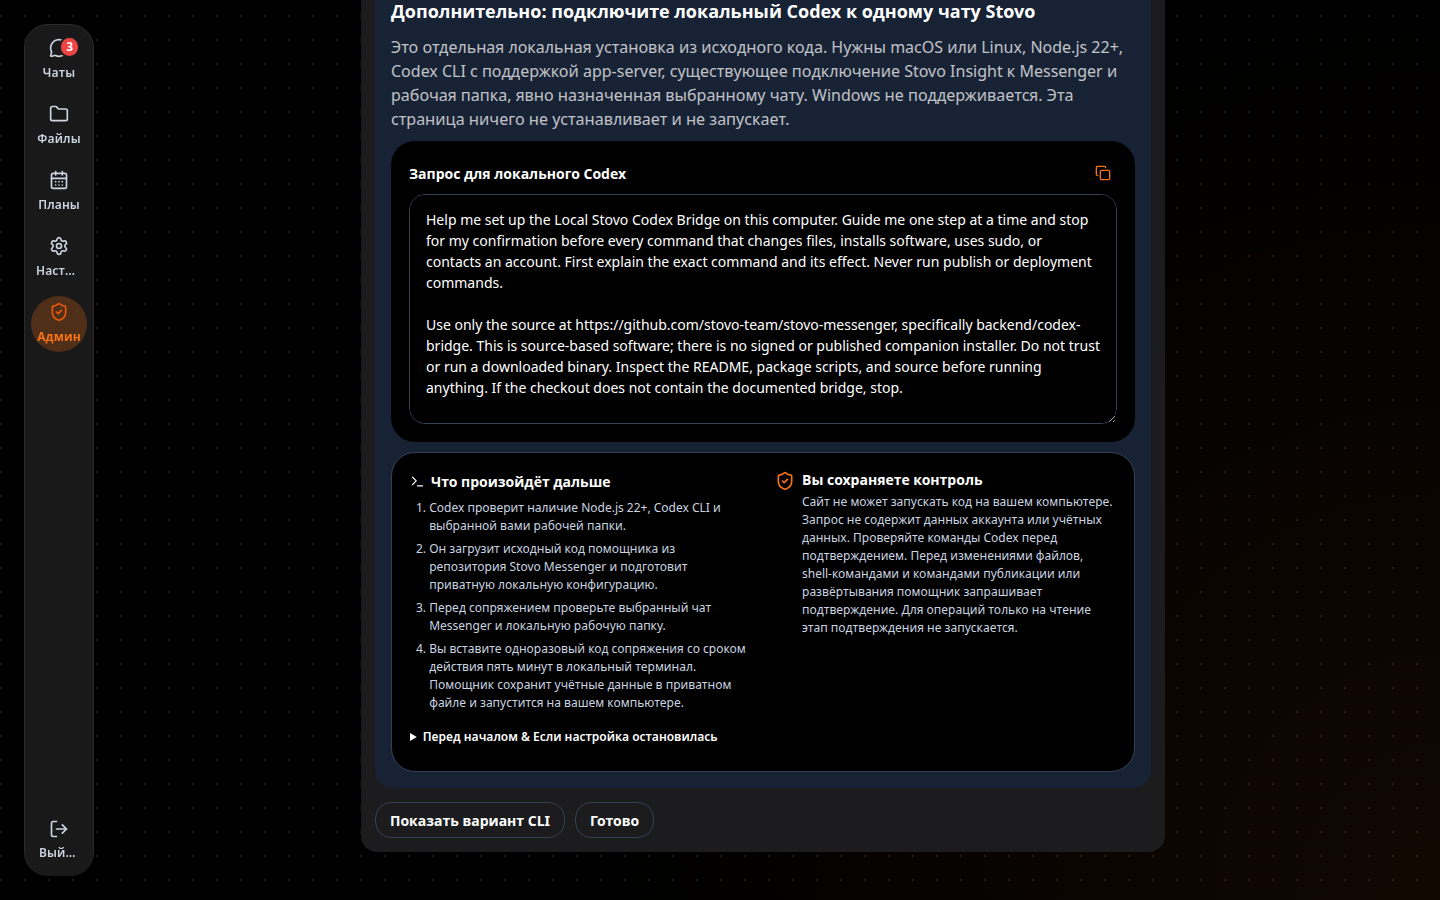
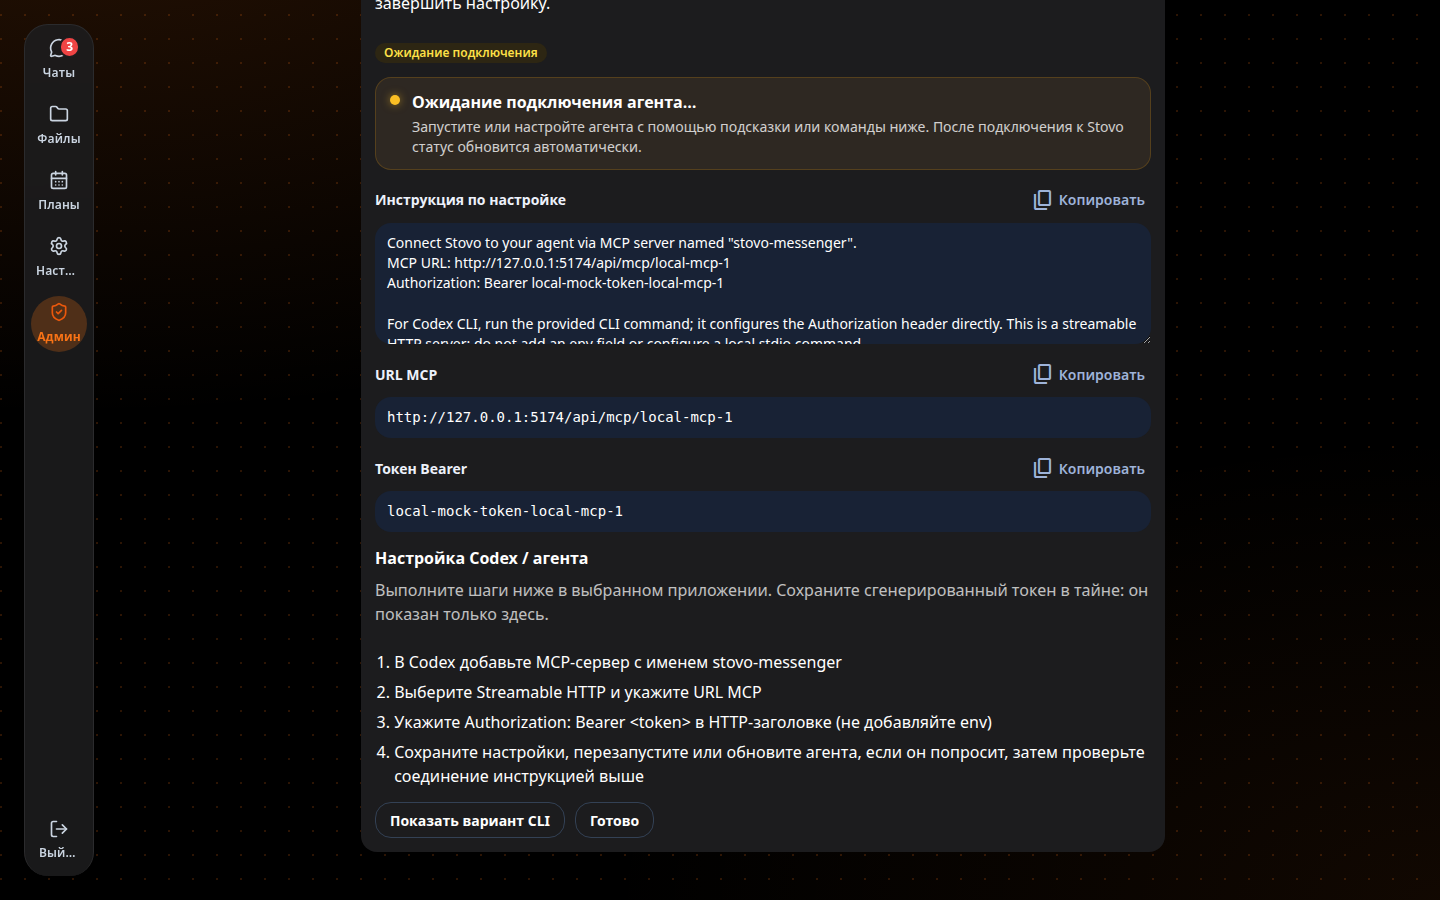
[Fix] Consolidate Connected Agents onboarding into single prompt

diff --git a/frontend/src/components/MCPConnectorsPanel.tsx b/frontend/src/components/MCPConnectorsPanel.tsx
@@ -5,7 +5,7 @@ import { ApiError, ApiRequestOptions } from "../api/client";
 import { Chat } from "../api/chats";
 import type { IntelligenceGrant, IntelligenceGrants } from "../api/intelligence";
 import { useStrings } from "../i18n/LanguageContext";
-import CodexBridgeSetupPanel, { CodexBridgeSetupPrompt } from "./CodexBridgeSetupPanel";
+import { codexBridgeSetupPrompt } from "./CodexBridgeSetupPanel";
 import { PopupDialog } from "./ui/Popup";
 import { PopupButton } from "./ui/PopupButton";
 import { PopupField } from "./ui/PopupField";
@@ -443,6 +443,21 @@ export default function MCPConnectorsPanel({
     : secret?.provider === "claude_code" ? copy.setupSteps.claude
     : copy.setupSteps.codex;
   const secretProviderName = MCP_PROVIDERS.find((item) => item.id === secret?.provider)?.label ?? secret?.provider ?? "";
+  const selectedInsightGrants = secret
+    ? (Object.entries(secret.insightGrants)
+        .filter(([, enabled]) => enabled)
+        .map(([grant]) => strings.intelligence.grants[grant as IntelligenceGrant])
+        .join(", ") || copy.none)
+    : copy.none;
+  const unifiedSetupPrompt = secret
+    ? [
+        secret.setupPrompt.trim(),
+        `${copy.insightPermissionsTitle} (${copy.insightPreferences}): ${selectedInsightGrants}`,
+        codexBridgeSetupPrompt.trim()
+      ]
+        .filter(Boolean)
+        .join("\n\n")
+    : "";
 
   return (
     <section className="mcp-connectors-panel">
@@ -450,7 +465,6 @@ export default function MCPConnectorsPanel({
         <article className="invite-link-card mcp-secret-card">
           <div className="mcp-secret-header">
             <div>
-              <span className="mcp-onboarding-eyebrow">{copy.onboardingStep(1, 3)}</span>
               <h2 ref={onboardingHeadingRef} tabIndex={-1}>{copy.onboardingTitle(secret.connectorName)}</h2>
               <p>
                 {copy.connectionFor(secret.connectorName, secretProviderName, formatMCPAlias(secret.alias))}
@@ -472,8 +486,8 @@ export default function MCPConnectorsPanel({
           </div>
 
           <div className="mcp-copy-field">
-            <div className="mcp-copy-field-label"><span>{copy.setupPrompt}</span><button type="button" className="mcp-inline-copy" onClick={() => void handleCopy("prompt", secret.setupPrompt)} aria-label={copy.copySetupPrompt}><span className="ms-icon ms-icon--18" aria-hidden>content_copy</span>{copied === "prompt" ? copy.copied : copy.copy}</button></div>
-            <textarea className="mcp-setup-prompt" readOnly rows={5} value={secret.setupPrompt} />
+            <div className="mcp-copy-field-label"><span>{copy.setupPrompt}</span><button type="button" className="mcp-inline-copy" onClick={() => void handleCopy("prompt", unifiedSetupPrompt)} aria-label={copy.copySetupPrompt}><span className="ms-icon ms-icon--18" aria-hidden>content_copy</span>{copied === "prompt" ? copy.copied : copy.copy}</button></div>
+            <textarea className="mcp-setup-prompt" readOnly rows={5} value={unifiedSetupPrompt} />
           </div>
 
           <div className="mcp-copy-field"><div className="mcp-copy-field-label"><span>{copy.mcpUrl}</span><button type="button" className="mcp-inline-copy" onClick={() => void handleCopy("url", secret.mcpUrl)} aria-label={copy.copyMcpUrl}><span className="ms-icon ms-icon--18" aria-hidden>content_copy</span>{copied === "url" ? copy.copied : copy.copy}</button></div><code>{secret.mcpUrl}</code></div>
@@ -488,23 +502,6 @@ export default function MCPConnectorsPanel({
               ))}
             </ol>
           </div>
-
-          <section className="mcp-onboarding-step">
-            <span className="mcp-onboarding-eyebrow">{copy.onboardingStep(2, 3)}</span>
-            <h3>{copy.insightPermissionsTitle}</h3>
-            <p className="mcp-insight-requested">
-              <strong>{copy.insightPreferences}:</strong>{" "}
-              {Object.entries(secret.insightGrants).filter(([, enabled]) => enabled).map(([grant]) => strings.intelligence.grants[grant as IntelligenceGrant]).join(", ") || copy.none}
-            </p>
-          </section>
-
-          <section className="mcp-onboarding-step mcp-onboarding-local-bridge">
-            <span className="mcp-onboarding-eyebrow">{copy.onboardingStep(3, 3)}</span>
-            <h3>{copy.localBridgeOnboardingTitle}</h3>
-            <p className="muted-text">{copy.localBridgePrerequisites}</p>
-            <CodexBridgeSetupPrompt />
-            <CodexBridgeSetupPanel />
-          </section>
 
           {showCli && <div className="mcp-cli-toggle"><code>{secret.cliCommand}</code></div>}
 

diff --git a/frontend/src/components/MCPConnectorsPanel.test.tsx b/frontend/src/components/MCPConnectorsPanel.test.tsx
@@ -165,20 +165,20 @@ describe("MCPConnectorsPanel Russian localization", () => {
       permissions: expect.objectContaining({ "messages.read": false, "chats.list": false }),
     }));
     expect(createMCPConnector).not.toHaveBeenCalledWith("test-token", expect.objectContaining({ insightGrants: expect.anything() }));
-    expect(container.textContent).toContain("ШАГ 1 ИЗ 3");
-    expect(container.textContent).toContain("ШАГ 2 ИЗ 3");
-    expect(container.textContent).toContain("ШАГ 3 ИЗ 3");
+    expect(container.textContent).not.toContain("ШАГ 1 ИЗ 3");
+    expect(container.textContent).not.toContain("ШАГ 2 ИЗ 3");
+    expect(container.textContent).not.toContain("ШАГ 3 ИЗ 3");
     expect(container.textContent).toContain("stovo-messenger");
     expect(container.textContent).toContain("Streamable HTTP");
     expect(container.textContent).toContain("не добавляйте env");
-    expect(container.textContent).toContain("Читать историю чата");
-    expect(container.textContent).toContain("macOS или Linux, Node.js 22+");
     expect(container.textContent).not.toContain("подтвердите каждое разрешение в авторизованном окне согласия Stovo Insight");
-    expect(container.querySelector(".mcp-local-codex-prompt textarea")?.value).toContain("pair_local_codex(connection_id, chat_id)");
-    expect(container.querySelector(".mcp-local-codex-prompt textarea")?.value).toContain("stop for my confirmation");
-    expect(container.querySelector(".mcp-setup-prompt")?.value).toContain("To test the connection, call stovo_connection_status");
-    expect(container.querySelector(".mcp-local-codex-prompt button")?.getAttribute("aria-label")).toBe("Скопировать запрос настройки");
-    expect(container.querySelector(".mcp-local-codex-panel details")).toBeTruthy();
+    expect(container.querySelectorAll(".mcp-setup-prompt")).toHaveLength(1);
+    expect(container.querySelector(".mcp-local-codex-prompt")).toBeNull();
+    const promptValue = container.querySelector<HTMLTextAreaElement>(".mcp-setup-prompt")?.value ?? "";
+    expect(promptValue).toContain("To test the connection, call stovo_connection_status");
+    expect(promptValue).toContain("Читать историю чата");
+    expect(promptValue).toContain("pair_local_codex(connection_id, chat_id)");
+    expect(promptValue).toContain("stop for my confirmation");
     expect(container.querySelector("form")).toBeNull();
     expect(container.querySelector(".mcp-connector-list")).toBeNull();
     expect(document.activeElement).toBe(container.querySelector(".mcp-secret-header h2"));

diff --git a/frontend/src/components/CodexBridgeSetupPanel.tsx b/frontend/src/components/CodexBridgeSetupPanel.tsx
@@ -3,7 +3,7 @@ import { Check, Copy, ShieldCheck, Terminal } from "lucide-react";
 import { useStrings } from "../i18n/LanguageContext";
 import "./CodexBridgeSetupPanel.css";
 
-const setupPrompt = `Help me set up the Local Stovo Codex Bridge on this computer. Guide me one step at a time and stop for my confirmation before every command that changes files, installs software, uses sudo, or contacts an account. First explain the exact command and its effect. Never run publish or deployment commands.
+export const codexBridgeSetupPrompt = `Help me set up the Local Stovo Codex Bridge on this computer. Guide me one step at a time and stop for my confirmation before every command that changes files, installs software, uses sudo, or contacts an account. First explain the exact command and its effect. Never run publish or deployment commands.
 
 Use only the source at https://github.com/stovo-team/stovo-messenger, specifically backend/codex-bridge. This is source-based software; there is no signed or published companion installer. Do not trust or run a downloaded binary. Inspect the README, package scripts, and source before running anything. If the checkout does not contain the documented bridge, stop.
 
@@ -47,7 +47,7 @@ export function CodexBridgeSetupPrompt() {
 
   async function copyPrompt() {
     try {
-      await navigator.clipboard.writeText(setupPrompt);
+      await navigator.clipboard.writeText(codexBridgeSetupPrompt);
       setCopied(true);
       setCopyFailed(false);
       window.setTimeout(() => setCopied(false), 2500);
@@ -66,7 +66,7 @@ export function CodexBridgeSetupPrompt() {
             {copied ? <Check size={16} /> : <Copy size={16} />}
           </button>
         </div>
-        <textarea className="mcp-setup-prompt" aria-label={strings.promptLabel} readOnly rows={5} value={setupPrompt} onFocus={(event) => event.currentTarget.select()} />
+        <textarea className="mcp-setup-prompt" aria-label={strings.promptLabel} readOnly rows={5} value={codexBridgeSetupPrompt} onFocus={(event) => event.currentTarget.select()} />
         {copyFailed && <p className="mcp-local-codex-copy-error" role="status">{strings.copyError}</p>}
       </div>
     </section>

diff --git a/e2e/visual/connected-agents.spec.ts b/e2e/visual/connected-agents.spec.ts
@@ -51,13 +51,14 @@ for (const scenario of shellScenarios) {
     await page.getByRole("button", { name: scenario.locale === "ru" ? "Создать подключение" : "Create connection" }).click();
 
     await expect(page.getByText(scenario.locale === "ru" ? "Настройка: Researcher" : "Set up Researcher")).toBeVisible();
-    await expect(page.locator(".mcp-secret-card .mcp-setup-prompt").first()).toHaveValue(/To test the connection/);
+    await expect(page.locator(".mcp-secret-card .mcp-setup-prompt")).toHaveCount(1);
+    await expect(page.locator(".mcp-secret-card .mcp-setup-prompt")).toHaveValue(/To test the connection/);
+    await expect(page.locator(".mcp-secret-card .mcp-setup-prompt")).toHaveValue(/pair_local_codex\(connection_id, chat_id\)/);
     await expect(page.locator(".mcp-setup-steps")).toContainText("stovo-messenger");
     await expect(page.locator(".mcp-setup-steps")).toContainText("Streamable HTTP");
     await expect(page.locator(".mcp-setup-steps")).toContainText(scenario.locale === "ru" ? "не добавляйте env" : "do not add env");
-    await expect(page.getByText(scenario.locale === "ru" ? "ШАГ 3 ИЗ 3" : "STEP 3 OF 3")).toBeVisible();
-    await expect(page.locator(".mcp-local-codex-prompt textarea")).toHaveValue(/pair_local_codex\(connection_id, chat_id\)/);
-    await expect(page.locator(".mcp-local-codex-prompt button")).toBeVisible();
+    await expect(page.getByText(scenario.locale === "ru" ? "ШАГ 3 ИЗ 3" : "STEP 3 OF 3")).toHaveCount(0);
+    await expect(page.getByRole("button", { name: scenario.locale === "ru" ? "Готово" : "Done", exact: true })).toBeVisible();
     await screenshot(page, info, { ...scenario, id: `CA-onboarding-${scenario.id}` });
   });
 }
